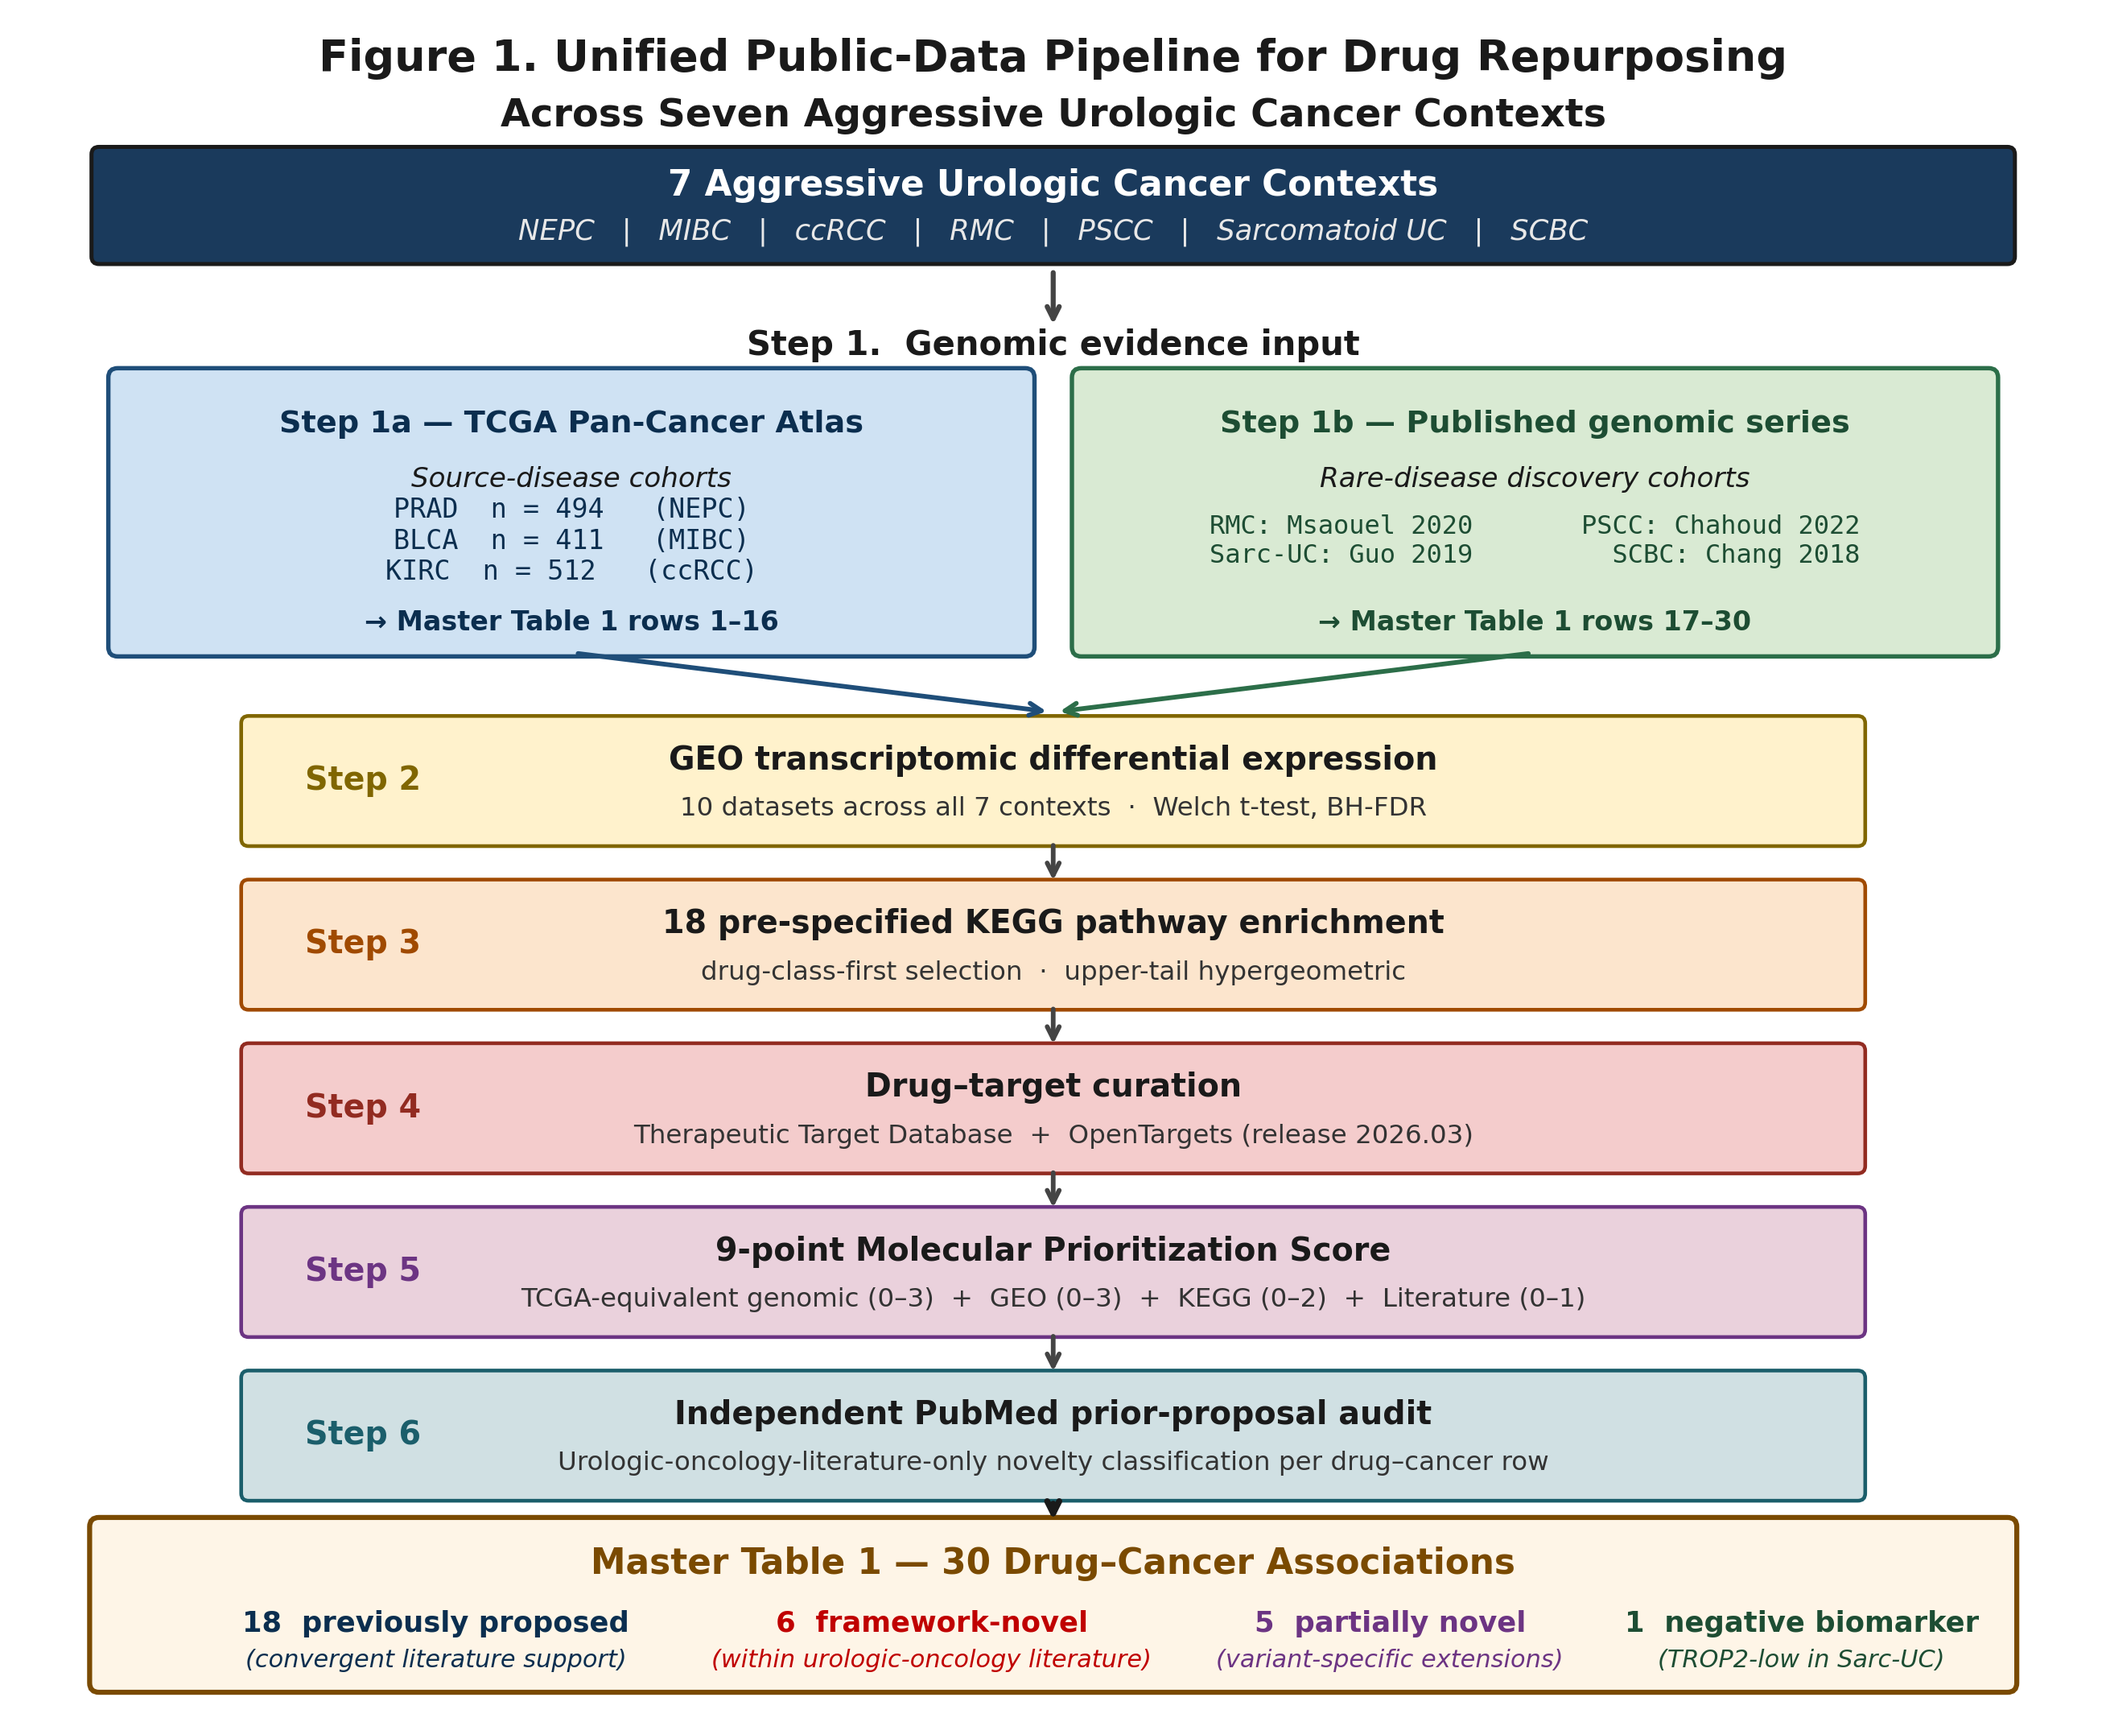
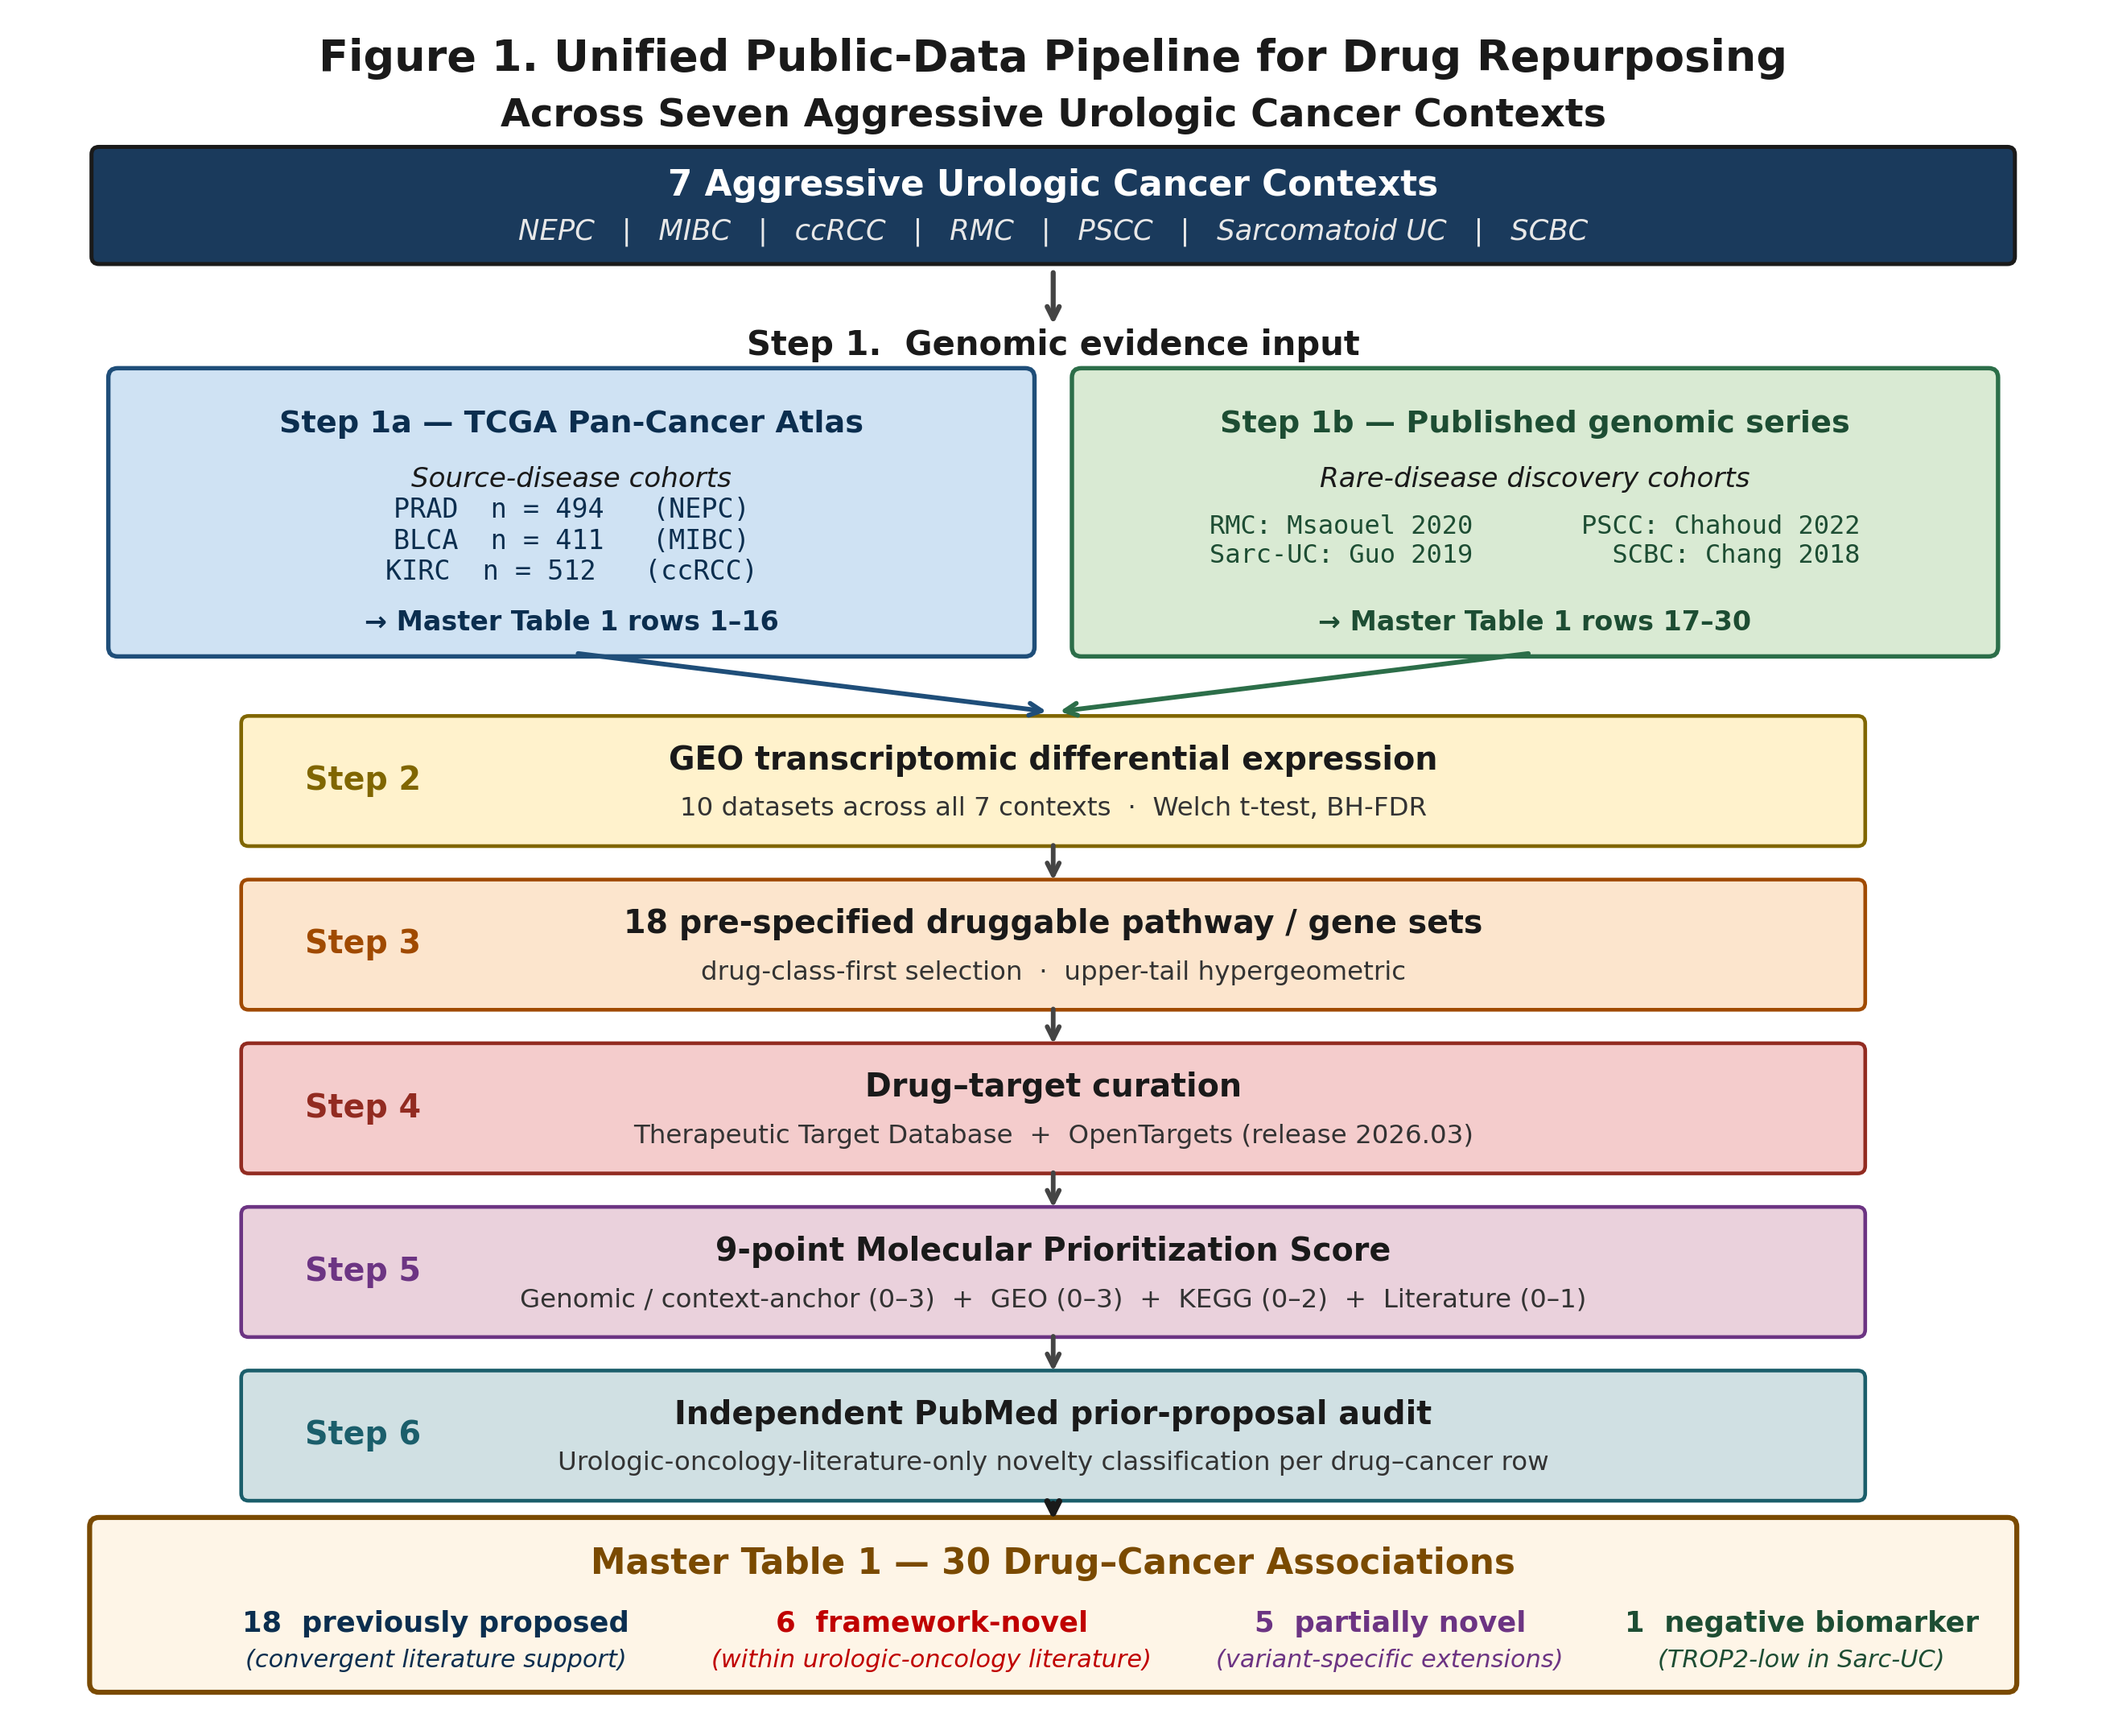
Restore Figure 1 generation + update Step 5 box to 'Genomic / context-anchor'
- 12_generate_figures.py now generates all four manuscript figures end-to-end
  (Figure 1 pipeline schematic + Figures 2/3/4 with matplotlib panels A/B
  plus ChatGPT-curated Panel C cellular schematics). Figure 1 generation was
  inadvertently dropped in the prior ChatGPT-integration commit; restoring it
  here preserves the reproducibility chain.
- Figure 1 Step 5 (9-point score) box updated from 'TCGA-equivalent genomic
  (0-3)' to 'Genomic / context-anchor (0-3)' to match the new Methods
  language (target-level alteration OR disease-defining anchor alteration,
  per the recent §2.5 reframe).

diff --git a/code/pipeline/12_generate_figures.py b/code/pipeline/12_generate_figures.py
@@ -1,11 +1,11 @@
-"""Final Figures 2/3/4 with ChatGPT cellular schematics as Panel C
-(replacing the matplotlib-drawn schematics).
+"""Generate all four manuscript figures.
 
-Panels A and B (volcano, cross-cell consistency, KEGG enrichment, subtype
-pie, subtype bars) are kept as the matplotlib reproducible outputs from
-the deposited code. Panel C is rendered by imshow-ing the deposited
-ChatGPT-generated cellular schematic PNGs (which are committed to the
-repository at figures/chatgpt_schematics/ for provenance).
+Figure 1 — Pipeline schematic (fully matplotlib).
+Figures 2 / 3 / 4 — Panels A and B (volcano, cross-cell consistency, KEGG
+enrichment, subtype pie, subtype bars) are matplotlib reproducible
+outputs from the deposited code. Panel C is rendered by imshow-ing the
+deposited ChatGPT-generated cellular schematic PNGs (committed to
+figures/chatgpt_schematics/ for provenance).
 """
 import sys, json
 from pathlib import Path
@@ -16,6 +16,7 @@ matplotlib.use('Agg')
 import matplotlib.pyplot as plt
 import matplotlib.gridspec as gridspec
 import matplotlib.image as mpimg
+from matplotlib.patches import FancyBboxPatch
 sys.stdout.reconfigure(encoding='utf-8')
 
 RESULTS = Path(r"C:\Users\garre\framework_expansion\results")
@@ -27,6 +28,162 @@ plt.rcParams.update({
     'font.family': 'sans-serif',
     'axes.spines.top': False, 'axes.spines.right': False,
 })
+
+
+# =====================================================================
+# Figure 1 — Pipeline schematic (compact aspect, Step 5 = G/E/P/L)
+# =====================================================================
+def generate_figure1():
+    print("Generating Figure 1: pipeline schematic")
+    fig, ax = plt.subplots(figsize=(11, 9.0))
+    ax.set_xlim(0, 11); ax.set_ylim(0, 9.0); ax.axis('off')
+
+    ax.text(5.5, 8.75,
+            'Figure 1. Unified Public-Data Pipeline for Drug Repurposing',
+            ha='center', fontsize=13, weight='bold', color='#1a1a1a')
+    ax.text(5.5, 8.45, 'Across Seven Aggressive Urologic Cancer Contexts',
+            ha='center', fontsize=11.5, weight='bold', color='#1a1a1a')
+
+    ax.add_patch(FancyBboxPatch((0.4, 7.75), 10.2, 0.55,
+                                 boxstyle='round,pad=0.04',
+                                 ec='#1a1a1a', fc='#1a3a5c', linewidth=1.2))
+    ax.text(5.5, 8.13, '7 Aggressive Urologic Cancer Contexts',
+            ha='center', va='center', fontsize=10.5, weight='bold',
+            color='white')
+    ax.text(5.5, 7.88,
+            'NEPC   |   MIBC   |   ccRCC   |   RMC   |   PSCC   |   '
+            'Sarcomatoid UC   |   SCBC',
+            ha='center', va='center', fontsize=8.5, color='#e8e8e8',
+            style='italic')
+    ax.annotate('', xy=(5.5, 7.35), xytext=(5.5, 7.70),
+                arrowprops=dict(arrowstyle='->', lw=1.5, color='#444'))
+
+    ax.text(5.5, 7.22, 'Step 1.  Genomic evidence input',
+            ha='center', fontsize=10, weight='bold', color='#1a1a1a')
+
+    ax.add_patch(FancyBboxPatch((0.5, 5.65), 4.85, 1.45,
+                                 boxstyle='round,pad=0.05',
+                                 ec='#1f4e79', fc='#cfe2f3', linewidth=1.3))
+    ax.text(2.925, 6.85, 'Step 1a — TCGA Pan-Cancer Atlas',
+            ha='center', va='center', fontsize=9.2, weight='bold',
+            color='#0b2e4f')
+    ax.text(2.925, 6.55, 'Source-disease cohorts',
+            ha='center', va='center', fontsize=8.2, style='italic',
+            color='#1a1a1a')
+    ax.text(2.925, 6.22,
+            'PRAD  n = 494   (NEPC)\nBLCA  n = 411   (MIBC)\n'
+            'KIRC  n = 512   (ccRCC)',
+            ha='center', va='center', fontsize=8.0, color='#0b2e4f',
+            family='monospace')
+    ax.text(2.925, 5.78, '→ Master Table 1 rows 1–16',
+            ha='center', va='center', fontsize=8.0, weight='bold',
+            color='#0b2e4f')
+
+    ax.add_patch(FancyBboxPatch((5.65, 5.65), 4.85, 1.45,
+                                 boxstyle='round,pad=0.05',
+                                 ec='#2c6e49', fc='#d9ead3', linewidth=1.3))
+    ax.text(8.075, 6.85, 'Step 1b — Published genomic series',
+            ha='center', va='center', fontsize=9.2, weight='bold',
+            color='#1d4d33')
+    ax.text(8.075, 6.55, 'Rare-disease discovery cohorts',
+            ha='center', va='center', fontsize=8.2, style='italic',
+            color='#1a1a1a')
+    ax.text(8.075, 6.22,
+            'RMC: Msaouel 2020       PSCC: Chahoud 2022\n'
+            'Sarc-UC: Guo 2019         SCBC: Chang 2018',
+            ha='center', va='center', fontsize=7.7, color='#1d4d33',
+            family='monospace')
+    ax.text(8.075, 5.78, '→ Master Table 1 rows 17–30',
+            ha='center', va='center', fontsize=8.0, weight='bold',
+            color='#1d4d33')
+
+    ax.annotate('', xy=(5.5, 5.30), xytext=(2.925, 5.62),
+                arrowprops=dict(arrowstyle='->', lw=1.4, color='#1f4e79'))
+    ax.annotate('', xy=(5.5, 5.30), xytext=(8.075, 5.62),
+                arrowprops=dict(arrowstyle='->', lw=1.4, color='#2c6e49'))
+
+    unified_steps = [
+        (4.62, 'Step 2',
+         'GEO transcriptomic differential expression',
+         '10 datasets across all 7 contexts  ·  Welch t-test, BH-FDR',
+         '#fff2cc', '#806600'),
+        (3.74, 'Step 3',
+         '18 pre-specified druggable pathway / gene sets',
+         'drug-class-first selection  ·  upper-tail hypergeometric',
+         '#fce5cd', '#a04a00'),
+        (2.86, 'Step 4',
+         'Drug–target curation',
+         'Therapeutic Target Database  +  OpenTargets (release 2026.03)',
+         '#f4cccc', '#922b21'),
+        (1.98, 'Step 5',
+         '9-point Molecular Prioritization Score',
+         'Genomic / context-anchor (0–3)  +  GEO (0–3)  +  '
+         'KEGG (0–2)  +  Literature (0–1)',
+         '#ead1dc', '#6c3483'),
+        (1.10, 'Step 6',
+         'Independent PubMed prior-proposal audit',
+         'Urologic-oncology-literature-only novelty classification '
+         'per drug–cancer row',
+         '#d0e0e3', '#1b5e6b'),
+    ]
+    box_x, box_w, box_h = 1.20, 8.60, 0.62
+    for y, label, title, sub, fc, accent in unified_steps:
+        ax.add_patch(FancyBboxPatch((box_x, y), box_w, box_h,
+                                     boxstyle='round,pad=0.04',
+                                     ec=accent, fc=fc, linewidth=1.1))
+        ax.text(box_x + 0.30, y + box_h/2, label, ha='left', va='center',
+                fontsize=9.5, weight='bold', color=accent)
+        ax.text(5.50, y + 0.42, title, ha='center', va='center',
+                fontsize=9.5, weight='bold', color='#1a1a1a')
+        ax.text(5.50, y + 0.16, sub, ha='center', va='center',
+                fontsize=7.8, color='#333')
+
+    for head_y, tail_y in [(4.36, 4.62), (3.48, 3.74), (2.60, 2.86),
+                            (1.72, 1.98)]:
+        ax.annotate('', xy=(5.5, head_y), xytext=(5.5, tail_y),
+                    arrowprops=dict(arrowstyle='->', lw=1.4, color='#444'))
+
+    ax.annotate('', xy=(5.5, 0.92), xytext=(5.5, 1.08),
+                arrowprops=dict(arrowstyle='->', lw=1.8, color='#1a1a1a'))
+
+    ax.add_patch(FancyBboxPatch((0.40, 0.08), 10.20, 0.84,
+                                 boxstyle='round,pad=0.05',
+                                 ec='#7a4a00', fc='#fef5e7', linewidth=1.5))
+    ax.text(5.50, 0.72, 'Master Table 1 — 30 Drug–Cancer Associations',
+            ha='center', va='center', fontsize=10.5, weight='bold',
+            color='#7a4a00')
+    ax.text(2.20, 0.40, '18  previously proposed',
+            ha='center', va='center', fontsize=8.5, weight='bold',
+            color='#0b2e4f')
+    ax.text(2.20, 0.20, '(convergent literature support)',
+            ha='center', va='center', fontsize=7.3, style='italic',
+            color='#0b2e4f')
+    ax.text(4.85, 0.40, '6  framework-novel',
+            ha='center', va='center', fontsize=8.5, weight='bold',
+            color='#c00000')
+    ax.text(4.85, 0.20, '(within urologic-oncology literature)',
+            ha='center', va='center', fontsize=7.3, style='italic',
+            color='#c00000')
+    ax.text(7.30, 0.40, '5  partially novel',
+            ha='center', va='center', fontsize=8.5, weight='bold',
+            color='#6c3483')
+    ax.text(7.30, 0.20, '(variant-specific extensions)',
+            ha='center', va='center', fontsize=7.3, style='italic',
+            color='#6c3483')
+    ax.text(9.50, 0.40, '1  negative biomarker',
+            ha='center', va='center', fontsize=8.5, weight='bold',
+            color='#1d4d33')
+    ax.text(9.50, 0.20, '(TROP2-low in Sarc-UC)',
+            ha='center', va='center', fontsize=7.3, style='italic',
+            color='#1d4d33')
+
+    plt.savefig(FIGURES / 'Figure1_pipeline.png', bbox_inches='tight')
+    plt.close()
+    print(f"  Saved Figure1_pipeline.png "
+          f"({(FIGURES/'Figure1_pipeline.png').stat().st_size:,} bytes)")
+
+
+generate_figure1()
 
 
 def panel_c_schematic(ax, png_path, title):
